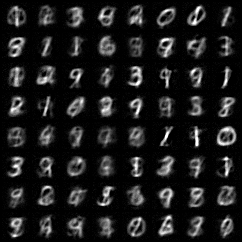
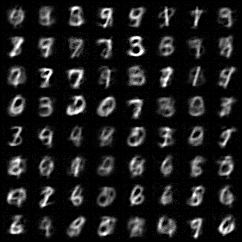
mnist + batching fixed

diff --git a/train_ot.py b/train_ot.py
@@ -61,11 +61,11 @@ class Synthetic(data.Dataset):
         self.y = self.y_.data.flatten(-2, -1).float()/255.
 
     def __len__(self):
-        return 5000# len(self.y)#self.y
+        return len(self.y)#self.y
 
     def __getitem__(self, i):
         if torch.is_tensor(self.y):
-            return self.y[i].cuda() / 255.
+            return self.y[i].cuda()
         return torch.from_numpy(self.y[i]).float().cuda()
 
 class icq(nn.Module):
@@ -204,25 +204,25 @@ def train(net, optimizer, loader, ds, args):
     #eg = Rings()#EightGaussian()
     gauss = torch.distributions.normal.Normal(torch.tensor([0.]).cuda(), torch.tensor([1.]).cuda())
     for epoch in range(1, args.epoch+1):
-        
-        #for idx, Y in enumerate(loader):
+        running_loss = 0.0
+        for idx, Y in enumerate(loader):
         #u = torch.rand(size=(args.batch_size, args.dims)).cuda()
         #Y = eg.sample(5000).cuda()
-        u = unif(size=(args.n, args.dims))#torch.rand(size=(args.n, args.dims)).cuda()
-        u = gauss.icdf(u)
-        running_loss = 0.0
-        optimizer.zero_grad()
-        Y_hat = net(u)
-        loss = dual(U=u, Y_hat=Y_hat, Y=ds, eps=args.eps)
-        loss.backward()
-        optimizer.step()
+            u = unif(size=(args.n, args.dims))#torch.rand(size=(args.n, args.dims)).cuda()
+            u = gauss.icdf(u)
+            optimizer.zero_grad()
+            Y_hat = net(u)
+            loss = dual(U=u, Y_hat=Y_hat, Y=Y, eps=args.eps)
+            loss.backward()
+            optimizer.step()
+            for p in positive_params:
+                p.data.copy_(torch.relu(p.data))
+            running_loss += loss.item()
 
-        for p in positive_params:
-            p.data.copy_(torch.relu(p.data))
-        running_loss += loss.item()
         if epoch % (args.epoch // 50) == 0:
             print('%.5f' %
-            (running_loss/args.iters))
+            (running_loss/idx))
+
     test(net, args, name='imgs/trained.png', loader=loader, Y=ds)
     '''
     Y = eg.sample(5000).cuda()
@@ -233,7 +233,7 @@ def train(net, optimizer, loader, ds, args):
 if __name__ == "__main__":
     parser = argparse.ArgumentParser()
     # optimization related arguments
-    parser.add_argument('--batch_size', default=128, type=int,
+    parser.add_argument('--batch_size', default=512, type=int,
                         help='input batch size')
     parser.add_argument('--epoch', default=100, type=int,
                         help='epochs to train for')
